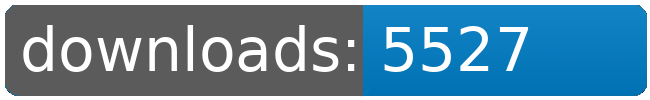
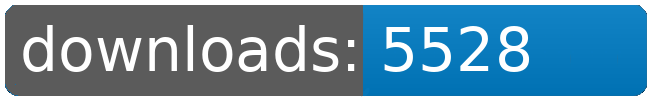
dl log written

Changed region(s): [[0.7692, 0.24, 0.8308, 0.72]]

diff --git a/README.md b/README.md
@@ -43,8 +43,8 @@
 		<td>5483</td>
 		<td>5497</td>
 		<td>5514</td>
-		<td>5527</td>
-		<td>+ 13</td>
+		<td>5528</td>
+		<td>+ 14</td>
 	</tr>
 	<tr>
 		<td>Jaws</td>
@@ -109,8 +109,8 @@
 		<td></td>
 		<td></td>
 		<td></td>
-		<td>37111</td>
-		<td>99</td>
+		<td>37112</td>
+		<td>100</td>
 	</tr>
 </table>
 </sub></sup>
@@ -135,8 +135,8 @@
 		<td>5483</td>
 		<td>5497</td>
 		<td>5514</td>
-		<td>5527</td>
-		<td>+ 13</td>
+		<td>5528</td>
+		<td>+ 14</td>
 	</tr>
 	<tr>
 		<td>Louise.Conglomerate.Shipyards</td>
@@ -223,8 +223,8 @@
 		<td></td>
 		<td></td>
 		<td></td>
-		<td>37111</td>
-		<td>99</td>
+		<td>37112</td>
+		<td>100</td>
 	</tr>
 </table>
 </sub></sup>
